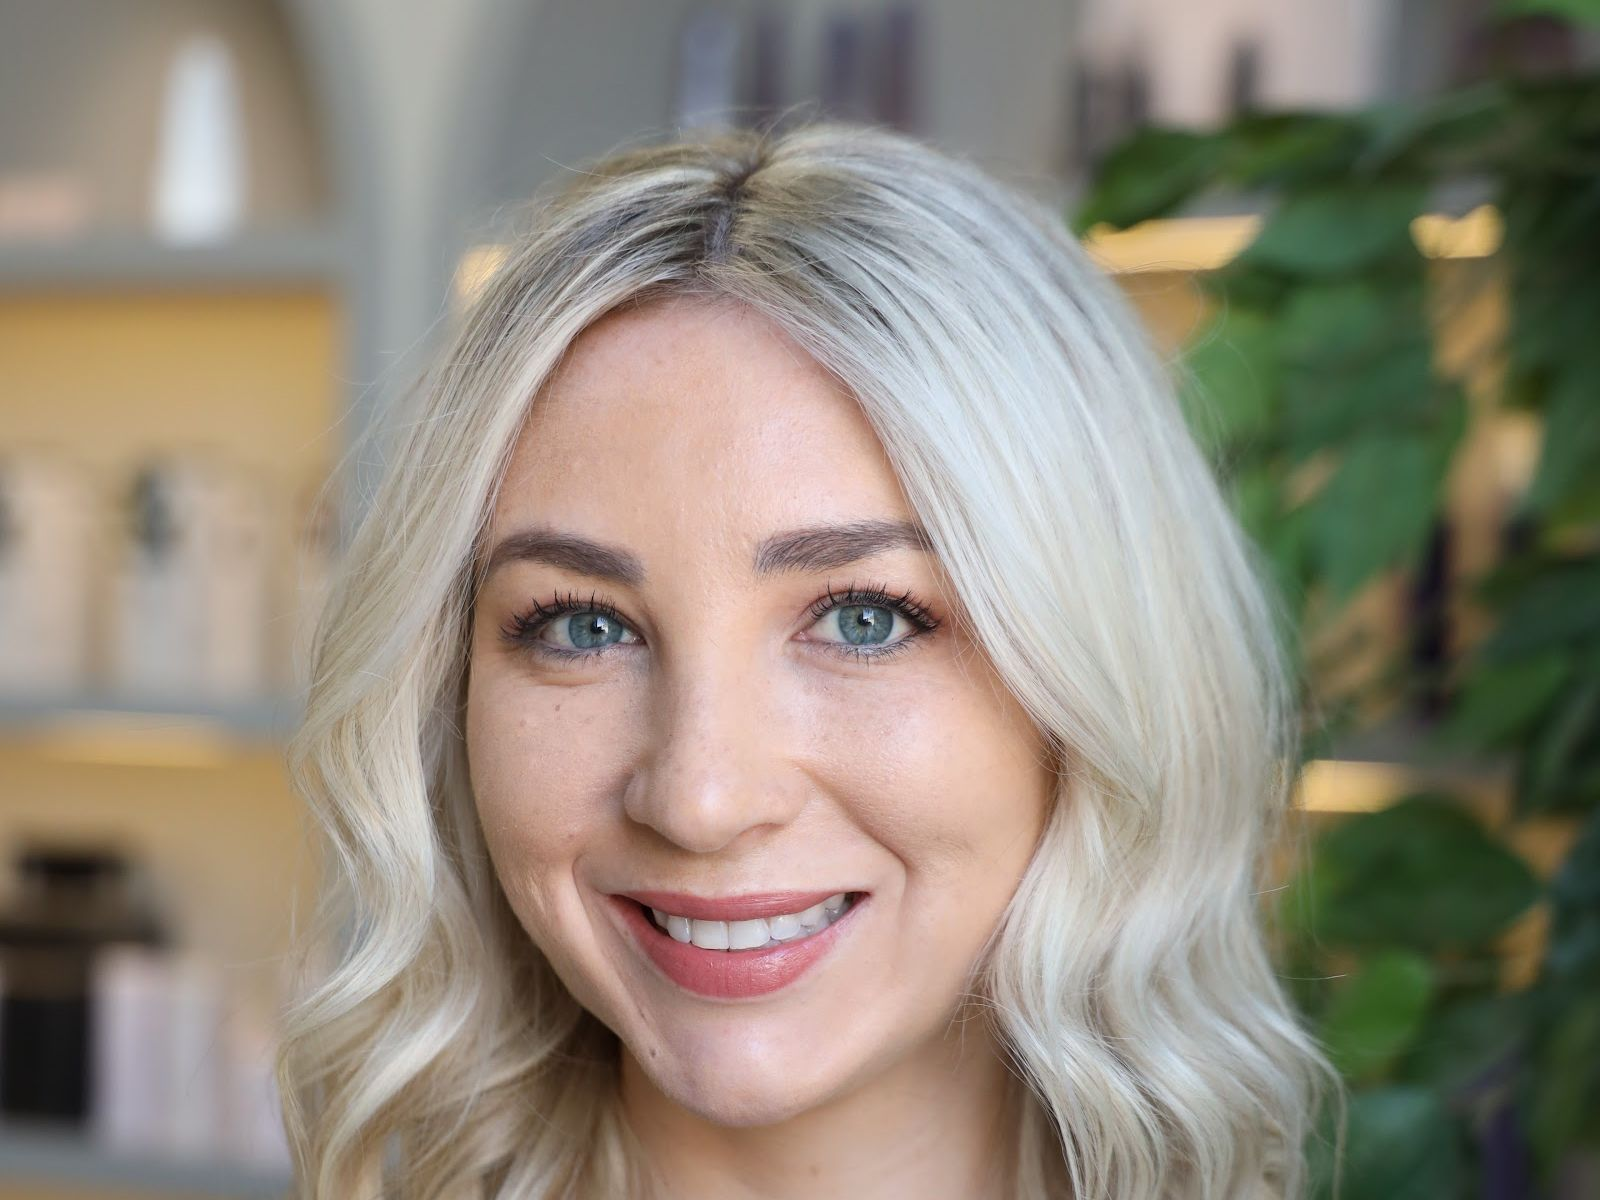
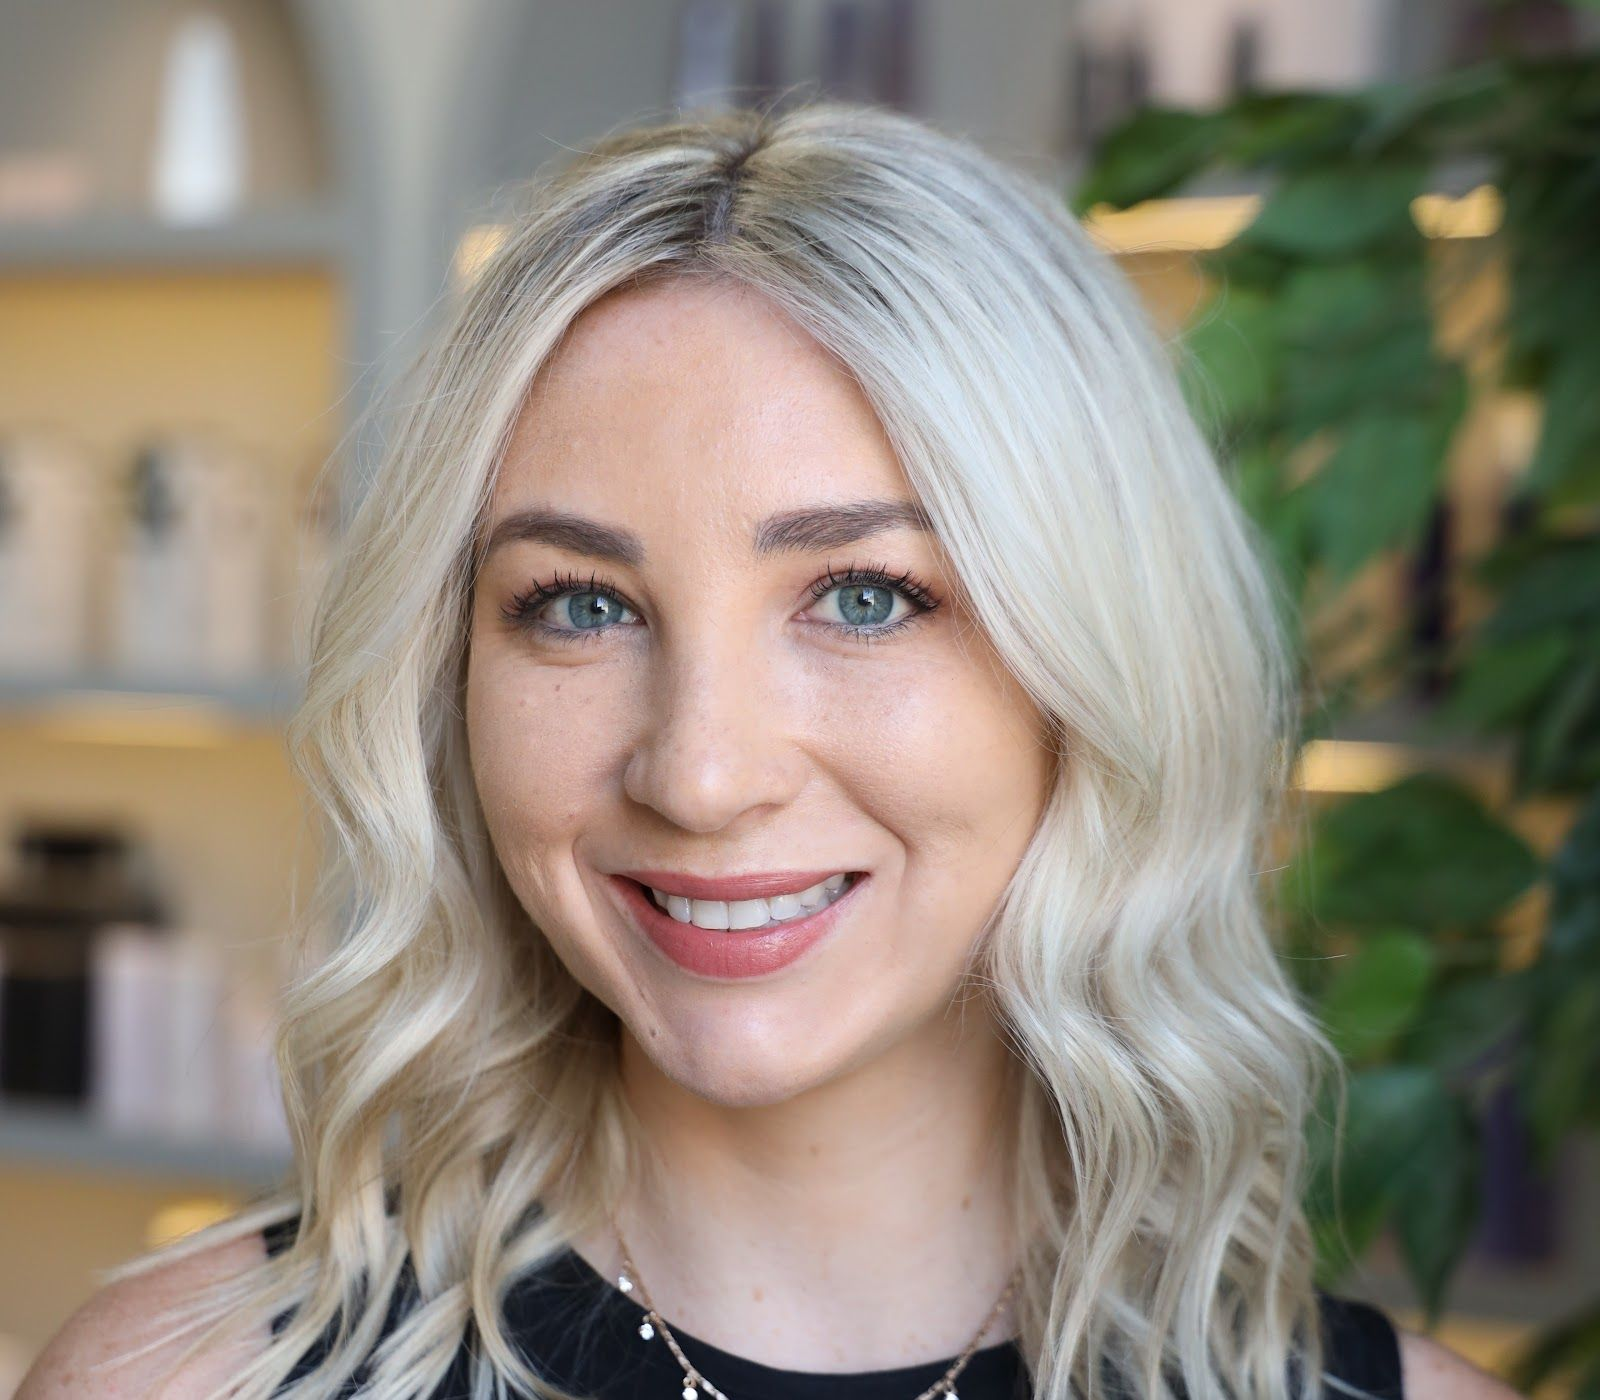
Kate prices the page: the twelve tokens become numbers, one price across all branches
From-figures at Stylist tier, Short/Fine, finish included, majority value
across the four Phorest exports. Plans are exact sums: 1,665 / 1,970 /
2,165. The shift portrait also lengthens past the chin on its own 8/7 band.
Derivation lives in the gitignored values file; Emma amends by
find-and-replace.

diff --git a/index.html b/index.html
@@ -184,28 +184,28 @@
       <div class="lp-row">
         <h4 class="lp-lane">Soft Blonde</h4>
         <dl class="lp-figs">
-          <div class="lp-fig"><dt>Visit 1 &middot; Create</dt><dd>from AED {{PRICE_SOFT_V1_FROM}}</dd></div>
-          <div class="lp-fig"><dt>Visit 2 &middot; Protect</dt><dd>from AED {{PRICE_SOFT_V2_FROM}}</dd></div>
-          <div class="lp-fig"><dt>Visit 3 &middot; Top-Up</dt><dd>from AED {{PRICE_SOFT_V3_FROM}}</dd></div>
-          <div class="lp-fig lp-fig--plan"><dt>The plan</dt><dd>from AED {{PRICE_SOFT_PLAN_FROM}}</dd></div>
+          <div class="lp-fig"><dt>Visit 1 &middot; Create</dt><dd>from AED 775</dd></div>
+          <div class="lp-fig"><dt>Visit 2 &middot; Protect</dt><dd>from AED 280</dd></div>
+          <div class="lp-fig"><dt>Visit 3 &middot; Top-Up</dt><dd>from AED 610</dd></div>
+          <div class="lp-fig lp-fig--plan"><dt>The plan</dt><dd>from AED 1,665</dd></div>
         </dl>
       </div>
       <div class="lp-row">
         <h4 class="lp-lane">Signature Blonde</h4>
         <dl class="lp-figs">
-          <div class="lp-fig"><dt>Visit 1 &middot; Create</dt><dd>from AED {{PRICE_SIG_V1_FROM}}</dd></div>
-          <div class="lp-fig"><dt>Visit 2 &middot; Protect</dt><dd>from AED {{PRICE_SIG_V2_FROM}}</dd></div>
-          <div class="lp-fig"><dt>Visit 3 &middot; Top-Up</dt><dd>from AED {{PRICE_SIG_V3_FROM}}</dd></div>
-          <div class="lp-fig lp-fig--plan"><dt>The plan</dt><dd>from AED {{PRICE_SIG_PLAN_FROM}}</dd></div>
+          <div class="lp-fig"><dt>Visit 1 &middot; Create</dt><dd>from AED 1,080</dd></div>
+          <div class="lp-fig"><dt>Visit 2 &middot; Protect</dt><dd>from AED 280</dd></div>
+          <div class="lp-fig"><dt>Visit 3 &middot; Top-Up</dt><dd>from AED 610</dd></div>
+          <div class="lp-fig lp-fig--plan"><dt>The plan</dt><dd>from AED 1,970</dd></div>
         </dl>
       </div>
       <div class="lp-row">
         <h4 class="lp-lane">Transformation Blonde</h4>
         <dl class="lp-figs">
-          <div class="lp-fig"><dt>Visit 1 &middot; Create</dt><dd>from AED {{PRICE_TRANS_V1_FROM}}</dd></div>
-          <div class="lp-fig"><dt>Visit 2 &middot; Protect</dt><dd>from AED {{PRICE_TRANS_V2_FROM}}</dd></div>
-          <div class="lp-fig"><dt>Visit 3 &middot; Top-Up</dt><dd>from AED {{PRICE_TRANS_V3_FROM}}</dd></div>
-          <div class="lp-fig lp-fig--plan"><dt>The plan</dt><dd>from AED {{PRICE_TRANS_PLAN_FROM}}</dd></div>
+          <div class="lp-fig"><dt>Visit 1 &middot; Create</dt><dd>from AED 1,275</dd></div>
+          <div class="lp-fig"><dt>Visit 2 &middot; Protect</dt><dd>from AED 280</dd></div>
+          <div class="lp-fig"><dt>Visit 3 &middot; Top-Up</dt><dd>from AED 610</dd></div>
+          <div class="lp-fig lp-fig--plan"><dt>The plan</dt><dd>from AED 2,165</dd></div>
         </dl>
       </div>
       <p class="lp-note">The plan is the sum of its three visits. There is no bundle price.</p>

diff --git a/css/blonde-standard.css b/css/blonde-standard.css
@@ -77,13 +77,13 @@ body{ overflow-x:clip; }
   .band-photo img{ aspect-ratio:4/3; }
 }
 
-/* The shift band is a portrait of a face, not a landscape of hair: at 16/7
-   the crop takes her forehead and chin, so this one band runs 3/2 on desktop
-   and narrower, and inherits the same 4/3 on a phone. */
+/* The shift band is a portrait of a face, not a landscape of hair: any
+   forced wide ratio crops her forehead or chin. Kate, 28 Aug: show more
+   than the chin. So this one band renders its file at natural ratio
+   (the file itself is pre-cropped head-to-shoulders), narrower than the
+   16/7 bands, on every width. */
 .band-photo--tall{ max-width:760px; }
-@media(min-width:560px){
-  .band-photo--tall img{ aspect-ratio:3/2; }
-}
+.band-photo--tall img{ aspect-ratio:8/7; }
 
 /* Lane card photographs: portrait crops, faces above centre so the phone
    crop keeps them in frame. */

diff --git a/docs/BUILD-NOTES.md b/docs/BUILD-NOTES.md
@@ -1,5 +1,24 @@
 # The Blonde Standard, build notes
 
+## 28 Aug 2026, PM: Kate prices the page. The tokens become numbers
+
+Kate's decision, in her own words: the worksheet answers stand, one price
+across all branches, and the prices go onto the landing page now. This
+consciously supersedes two pass 3 gates: the zero-digits rule and the
+switch-stays-off-pending-Emma rule. Emma-Louise still receives the completed
+worksheet (sent to Kate 28 Aug) and any amendment is a find-and-replace from
+`docs/BLONDE-CAMPAIGN-PRICES.md`, where the twelve values and their
+derivation now live. In short: every figure is the lane's anchor service at
+Stylist tier, Short/Fine, plus bond, toner and blowdry, majority value
+across the four Phorest branch exports; V2 (280) and V3 (610) are the same
+in every lane because the menu prices them lane-blind; plans are exact sums
+(1,665 / 1,970 / 2,165). The from-price honesty line Kate approved earlier
+carries the length-and-stylist spread. Pass 3's definition-of-done grep for
+digits is retired by this decision. Still worth Emma's eyes: whether
+Signature's V1 anchor should be Full Head Foils (as published) or the root
+rhythm, and the 32 mismatched Phorest lines logged in the worksheet, which
+make "one price across all branches" true in Phorest only after a tidy.
+
 ## Shift photo v2 + type fix, 28 Aug 2026, same day
 
 Kate on the live page: the first shift photo read as a repeat of the lane
